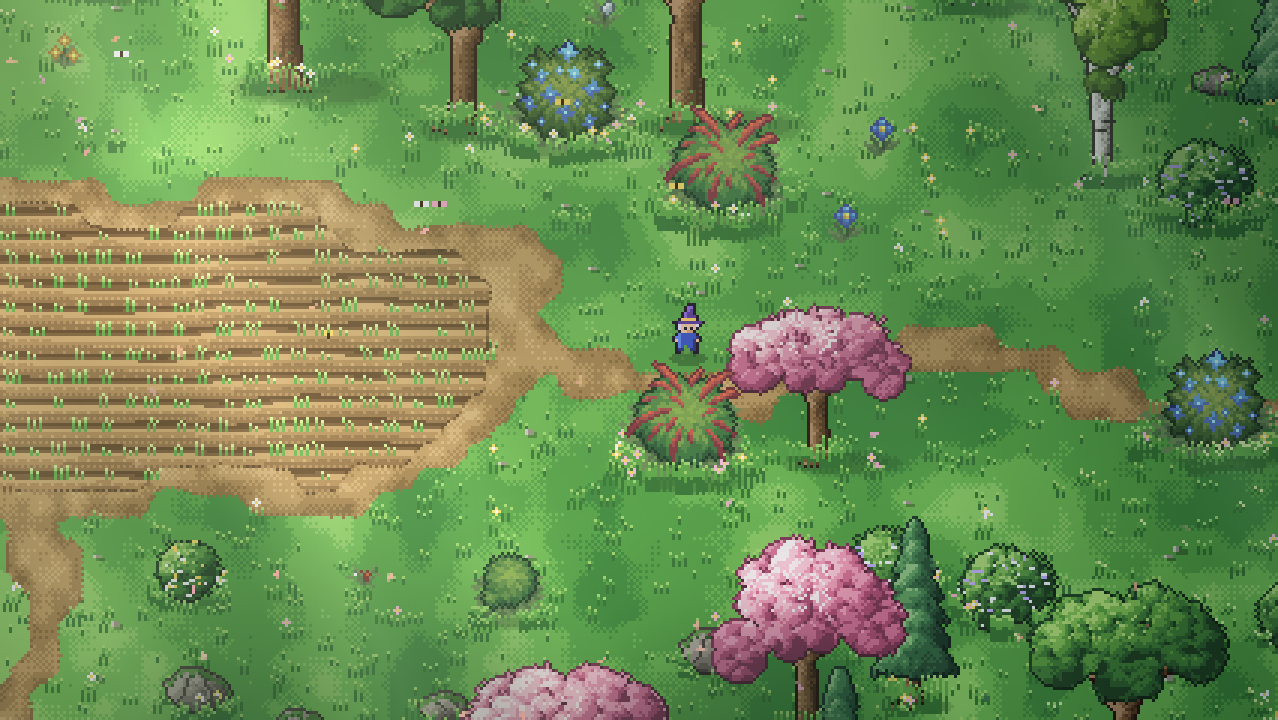
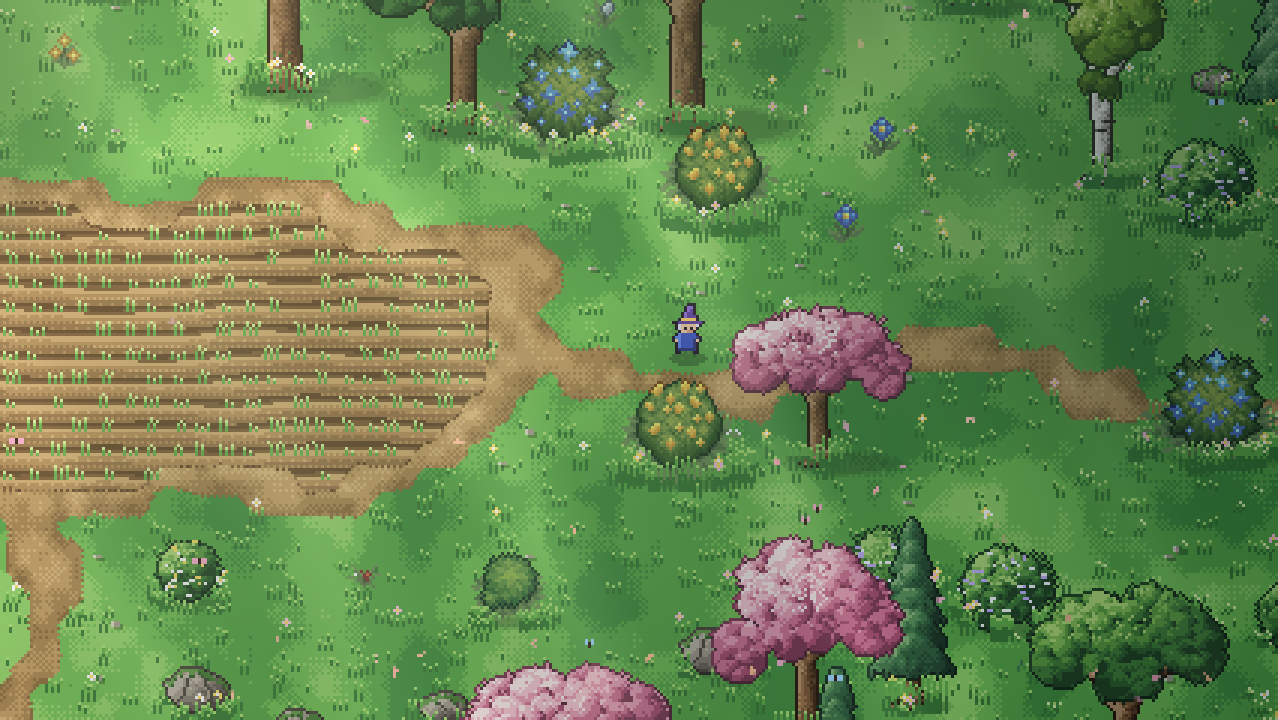
Drop the red spiky bushes from the Grassland import
Bush1/Bush8 clash with the look; the east meadow uses the yellow-flowered
Bush6 instead. Changelog v0.6.1.

Claude-Session: https://claude.ai/code/session_01Y3QepJTJgk9rCJ93wTDK78

diff --git a/tools/art/vale/grassland.py b/tools/art/vale/grassland.py
@@ -15,9 +15,10 @@ import pixeltool  # noqa: E402
 
 ROOT = Path(__file__).resolve().parents[3]
 OUT = ROOT / "art/third_party/grassland"
+EXCLUDED_BUSHES = (1, 8)  # red spiky bushes: don't fit the look
 KEEP = (["Ruin1_grass_shadow", "Ruin2_grass_shadow", "Ruin3_grass_shadow", "Ruin4_grass_shadow", "Ruin5_grass_shadow"]
         + [f"Stone{i}_grass_shadow" for i in range(1, 6)] + [f"Rpck_grass{i}" for i in range(1, 6)]
-        + [f"Bush{i}" for i in range(1, 20)] + [f"Broken_tree{i}" for i in (1, 2, 4, 5)]
+        + [f"Bush{i}" for i in range(1, 20) if i not in EXCLUDED_BUSHES] + [f"Broken_tree{i}" for i in (1, 2, 4, 5)]
         + [f"Flower{i}" for i in range(1, 12)] + ["grass_element1", "grass_element2", "grass_element3"]
         + [f"Rock_grass_element{i}" for i in (11, 12, 13, 14)])
 

diff --git a/CHANGELOG.md b/CHANGELOG.md
@@ -2,6 +2,10 @@
 
 按时间倒序记录每次更新。版本号用 `0.主版本.小版本`：画面方向或架构发生变化时加主版本号，同一方向上的调整加小版本号。括号里是对应的提交。
 
+## v0.6.1 · 去掉红色尖叶灌木（2026-10-12）
+
+- 第三方素材里的红色尖叶灌木（`Bush1`、`Bush8`）和画面风格不搭，从导入列表和仓库里删除；东边草地原来用它的位置换成黄花灌木（`Bush6`）。
+
 ## v0.6.0 · 世界系统：所有资产可以大规模使用（2026-10-12）
 
 把星尘山谷风格的演示场景改成一套可复用的 Godot 节点，在任意大小的地图上搭场景。（`9b45162`）
